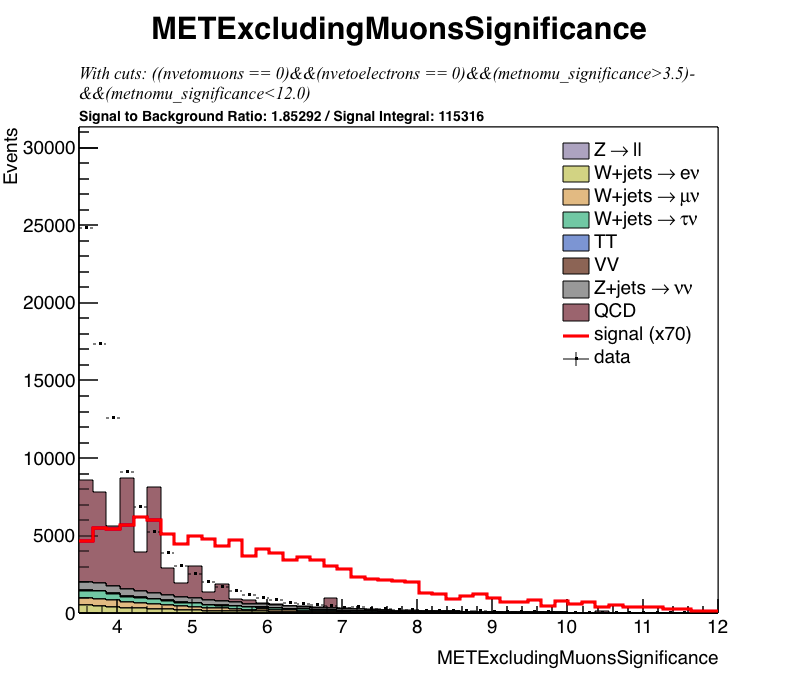
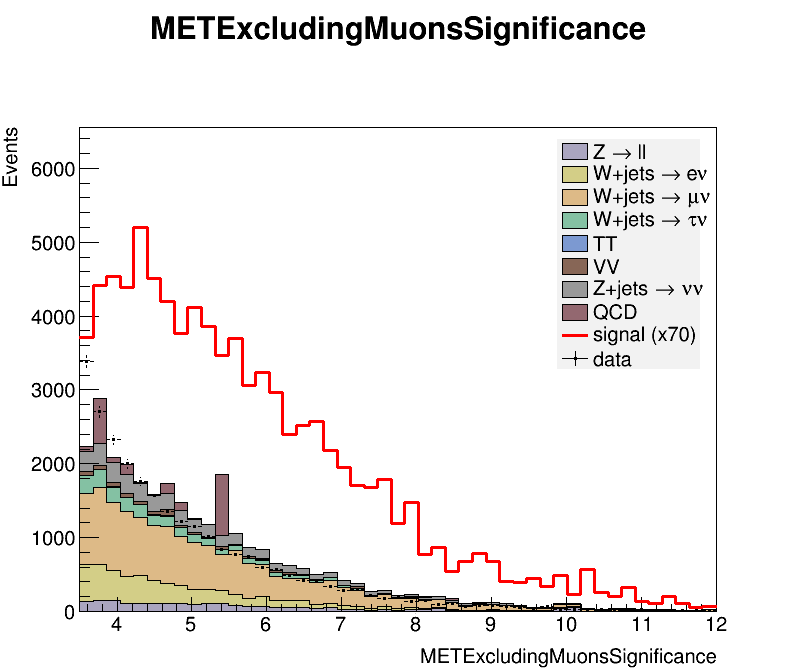
fixing bugs

diff --git a/src/histo_plot.cpp b/src/histo_plot.cpp
@@ -14,7 +14,7 @@ void HistoPlot::draw_plot(Variable* var, std::vector<DataChain*> bg_chains,
   p2->cd();
 
   THStack stack 	 	 					= draw_stacked_histo(legend, var, bg_chains, with_cut, data, variables);
-  TH1F* signal_histo 	 		= draw_signal(signal_chain, var, with_cut, legend, variables);
+    TH1F* signal_histo 	 		= draw_signal(signal_chain, var, with_cut, legend, variables);
   TH1F* data_histo   	 		= draw_data(data, var, with_cut, legend, variables);
 
   stack.Draw();
@@ -27,6 +27,7 @@ void HistoPlot::draw_plot(Variable* var, std::vector<DataChain*> bg_chains,
   TH1F* max_histo 	   	= get_max_histo(plot_histos);
 
   draw_subtitle(var, variables, with_cut, plot_histos[0], plot_histos[2]);
+
   stack.SetMaximum(get_histo_y_max(max_histo)*1.2);
   build_legend(legend, max_histo, var, with_cut);
 
@@ -56,6 +57,7 @@ std::string HistoPlot::get_selection(Variable* variable, std::vector<Variable*>*
 																																					bool with_cut, bool is_signal, std::string lepton_sel)
 {
 		std::string selection;
+   std::cout<<"variables:"<<variables<<"\n";
 		if ((variables != NULL) && (with_cut))
 	 {
 	  	selection = variable->build_multicut_selection(is_signal, variables, lepton_sel);
@@ -64,7 +66,7 @@ std::string HistoPlot::get_selection(Variable* variable, std::vector<Variable*>*
 	 {
 	  	selection = variable->build_selection_string(with_cut, is_signal, lepton_sel);
 	 }
-
+std::cout<<"selection:"<<selection<<"\n";
 		return selection;
 }
 
@@ -94,6 +96,7 @@ double HistoPlot::get_histo_integral(TH1F* histo, bool with_cut, Variable* var)
 void HistoPlot::draw_subtitle(Variable* variable, std::vector<Variable*>* variables,
 																														bool with_cut, TH1F* last_stacked, TH1F* signal_histo)
 {
+
 		std::string selection = get_selection(variable, variables, with_cut, false);
 		std::string plot_subtitle("#font[12]{");
 		std::string s_bg("Signal to Background Ratio: " + get_string_from_double(integral_ratio(variable, last_stacked, signal_histo, with_cut)));
@@ -106,20 +109,25 @@ void HistoPlot::draw_subtitle(Variable* variable, std::vector<Variable*>* variab
 		}
 		else
 		{
+
 				if (selection.length() > 69)
 				{
+
 						std::string first_line 			= selection.substr(0, 69);
-						selection.erase(selection.length() - 22, 22);
-						if (selection.length() > 148)
+						//selection.erase(selection.length() - 22, 22);
+ 
+						if (selection.length() > 138)
 						{
-								std::string second_line = selection.substr(69, 148);
+								std::string second_line = selection.substr(69, 138);
 								//std::string third_line 	= selection.substr(148, selection.length() - 1);
 								plot_subtitle 									+= ("#splitline{With cuts:" + first_line + "-}{" + second_line + "}");
+
 						}
 						else
 						{
-								std::string second_line = selection.substr(69, selection.length() - 1);
-								plot_subtitle 									+= ("#splitline{With cuts: " + first_line + "-}{" + second_line + "}");
+ 								std::string second_line = selection.substr(69, selection.length() - 1);    
+
+								plot_subtitle += ("#splitline{With cuts: " + first_line + "-}{" + second_line + "}");
 						}
 
 				}
@@ -130,7 +138,8 @@ void HistoPlot::draw_subtitle(Variable* variable, std::vector<Variable*>* variab
 		}
 
 		plot_subtitle += "}";
-	 TLatex t;
+
+	 /*TLatex t;
 	 t.SetTextSize(0.03);
 	 t.DrawLatexNDC(0.1, 0.96, plot_subtitle.c_str());
 		t.Draw();
@@ -138,7 +147,8 @@ void HistoPlot::draw_subtitle(Variable* variable, std::vector<Variable*>* variab
 		TLatex g;
 		g.SetTextSize(0.025);
 		g.DrawLatexNDC(0.1, 0.91, plot_subsubtitle.c_str());
-		g.Draw();
+		g.Draw();*/
+std::cout << plot_subtitle<<"\n";
 }
 
 std::string HistoPlot::get_string_from_double(double num)
@@ -156,13 +166,12 @@ THStack HistoPlot::draw_stacked_histo(TLegend* legend, Variable* var, std::vecto
   THStack stack(var->name_styled, "");
 
   for(int i = 0; i < bg_chains.size(); i++) {
-  		double mc_weight = 1; //get_mc_weight(bg_chains[i], data_chain, var, with_cut, variables);
-  		std::string lep_sel_w_mc_weight = get_string_from_double(mc_weight) + "*" + lepton_sel_default();
-  		std::cout << "for background:::::" << bg_chains[i]->legend << std::endl;
-  		std::cout << "lep sel string w/ mc weight" << lep_sel_w_mc_weight << std::endl;
-    TH1F* single_bg_histo = draw_background(bg_chains[i], var, colours()[i], with_cut, variables, lep_sel_w_mc_weight);
-    stack.Add(single_bg_histo);
-    legend->AddEntry(single_bg_histo, bg_chains[i]->legend, "f");
+  	std::cout << "background:" << bg_chains[i]->legend<<"\n";
+  	double mc_weight = 10; //get_mc_weight(bg_chains[i], data_chain, var, with_cut, variables);
+ 	std::string lep_sel_w_mc_weight = get_string_from_double(mc_weight) + "*" + lepton_sel_default();
+    	TH1F* single_bg_histo = draw_background(bg_chains[i], var, colours()[i], with_cut, variables, lep_sel_w_mc_weight);
+    	stack.Add(single_bg_histo);
+    	legend->AddEntry(single_bg_histo, bg_chains[i]->legend, "f");
   }
 
   return stack;

diff --git a/src/variable.cpp b/src/variable.cpp
@@ -107,11 +107,11 @@ std::string Variable::build_multicut_selection(bool is_signal, std::vector<Varia
 std::string Variable::build_selection_string(bool with_cut, bool is_signal, std::string lepton_sel)
 {
   std::string sel_string;
-  sel_string += lepton_sel; //lepton_sel syntax must have an open ( at the front, or if MC weight applied between this and the lepton_sel part
-  std::cout << "lepton_sel:"<< lepton_sel << std::endl;
+  //sel_string += lepton_sel; //lepton_sel syntax must have an open ( at the front, or if MC weight applied between this and the lepton_sel part
+  //std::cout << "lepton_sel:"<< lepton_sel << std::endl;
   if (with_cut)
   {
-  		sel_string += "&&" + build_selection(name, x_min_cut, x_max_nocut, abs_for_cut);
+  		sel_string += /*"&&"*/"(" + build_selection(name, x_min_cut, x_max_nocut, abs_for_cut);
   }
 
   sel_string += ")*total_weight_lepveto";

diff --git a/src/super_vars.cpp b/src/super_vars.cpp
@@ -69,7 +69,7 @@ std::vector<Variable*> SuperVars::get_var_vector()
 
 std::vector<Variable*> SuperVars::get_cut_vector()
 {
-		Variable* var_arr[] =		{metnomu_significance/*, alljetsmetnomu_mindphi, dijet_deta*/};
+		Variable* var_arr[] =		{metnomu_significance, alljetsmetnomu_mindphi, dijet_deta};
 																									/*{m_mumu, forward_tag_eta, dijet_deta, metnomu_significance, sqrt_ht, dijet_M,
 																									alljetsmetnomu_mindphi, metnomuons, jet1_pt, jet2_eta, central_tag_eta,
 																									dijet_dphi, metnomu_x, metnomu_y,  ht, ht30, unclustered_et, jet1metnomu_dphi,
